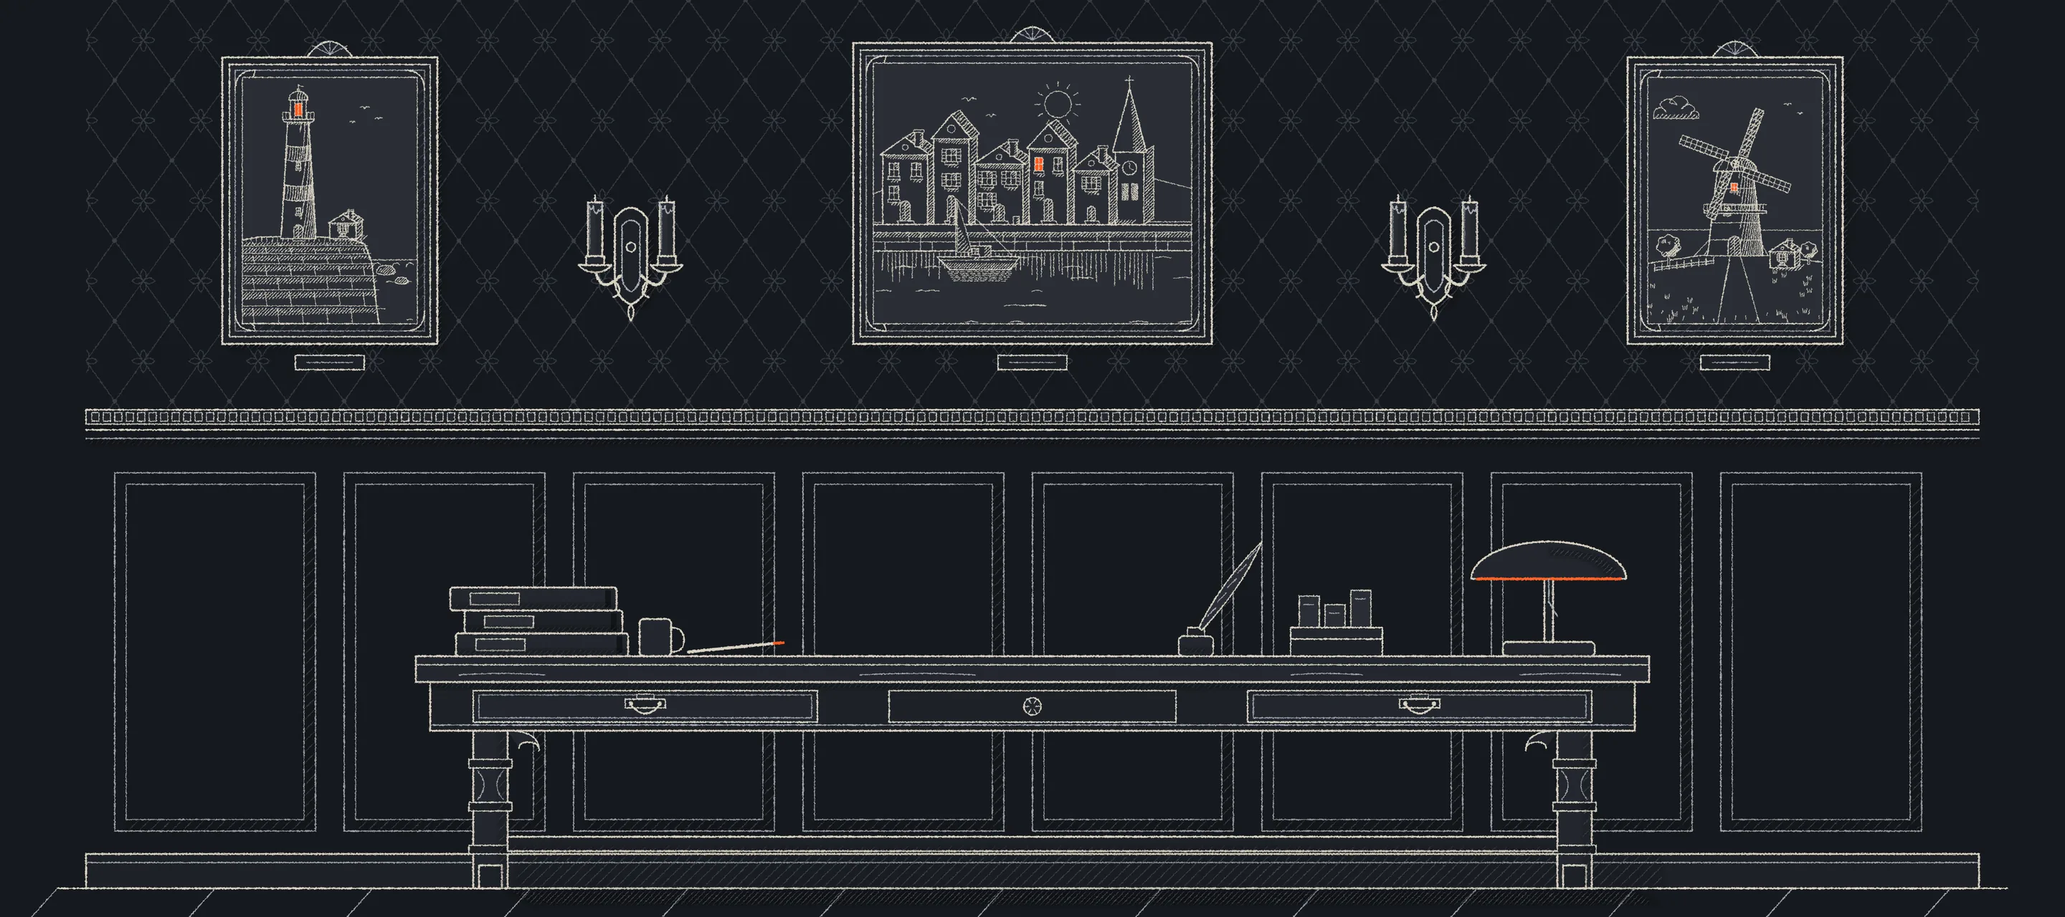
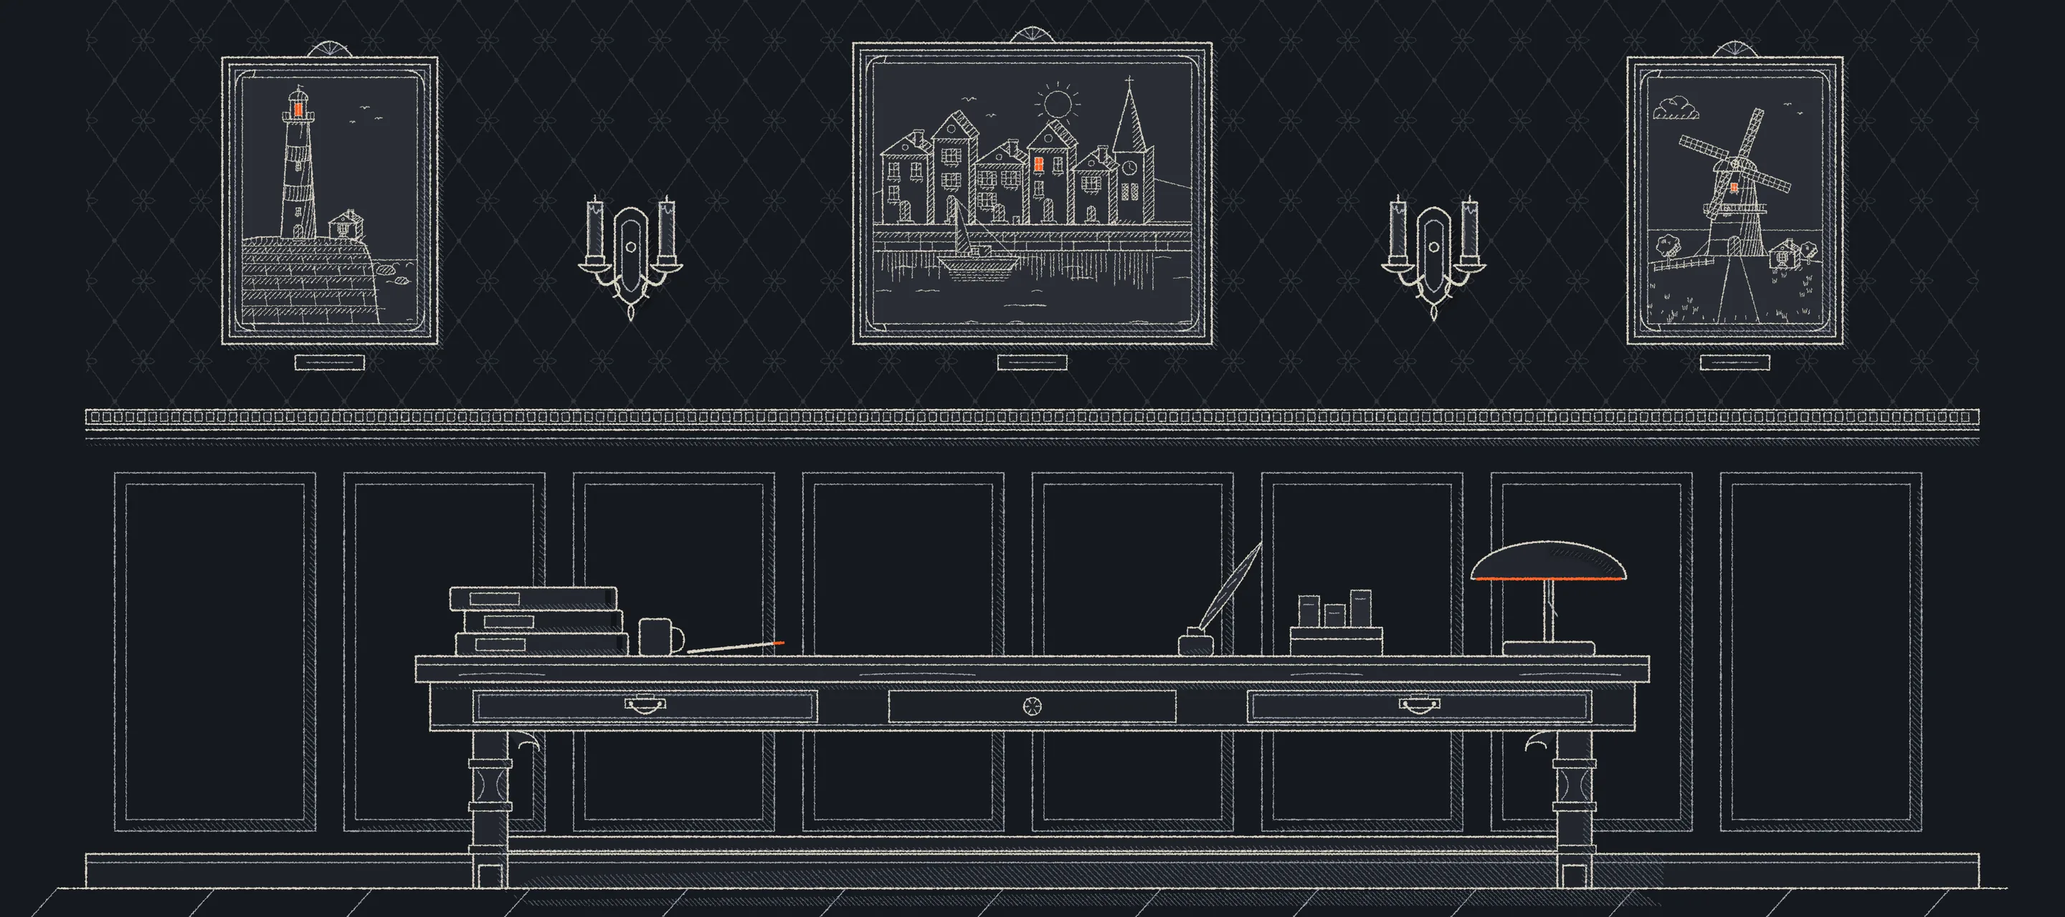
feat(library-art): the study's hatching in the room and the paintings
- washify turns the room's pattern fills into clean ruled hatching on the
  plate's grid (hatching.tile_safe, so a set runs on across the tile edge),
  feathered towards the light, with no wash under it: a shade is hatched or
  washed, never both (R-BAKE-1 changed, P9 now "hatch or wash").
- The shelves' shadows are one deep set under each board and down each left
  side; the soft top and left washes and the pilasters' wash are gone.
- Picture tiers at 0.85 of the room's spacing, judged at 1x and 2x on the page.
- Hatch sets are written as one path each (the print vector stays in budget).
- The desk's damask at 0.5 and its hatching feathered: the dark desk plate's
  1x level is 117 KB against a 120 KB budget, which is unchanged.
- Fix: the rect parser matched stroke-width as width.

Claude-Session: https://claude.ai/code/session_01EUrBbedvfqT1kx9S9BjSVt

diff --git a/astro/scripts/library-art/kernel/hatching.py b/astro/scripts/library-art/kernel/hatching.py
@@ -92,7 +92,15 @@ def _stroke(x0, y0, x1, y1, hand, rg, curve=0.0):
     return [(sx, sy), (mx, my), (ex, ey)]
 
 
-def _set(poly, sp, ang, hand, rg, grade, feather=None, curve=0.0, clean=False):
+def tile_safe(sp, tile, ang=45):
+    """The spacing nearest sp whose lines at ang meet themselves across a tile of this width, so a
+    ruled set anchored to the plate (not the shape) runs on unbroken into the next tile."""
+    k = abs(math.sin(math.radians(ang))) or 1.0
+    n = max(1, round(tile * k / sp))
+    return tile * k / n
+
+
+def _set(poly, sp, ang, hand, rg, grade, feather=None, curve=0.0, clean=False, anchored=False):
     """One set of parallel lines at angle ang (degrees) across the polygon."""
     th = math.radians(ang)
     dx, dy = math.cos(th), math.sin(th)
@@ -111,7 +119,8 @@ def _set(poly, sp, ang, hand, rg, grade, feather=None, curve=0.0, clean=False):
     cx, cy = sum(p[0] for p in poly) / len(poly), sum(p[1] for p in poly) / len(poly)
     c0 = cx * nx + cy * ny
     lines = []
-    for s in _offsets(lo, hi, sp, grade):
+    offs = [k * sp for k in range(math.ceil(lo / sp), math.floor(hi / sp) + 1)] if anchored else _offsets(lo, hi, sp, grade)
+    for s in offs:
         jit = rg.uniform(-0.08, 0.08) * sp if hand == "free" and not clean else 0.0
         drift = math.radians(rg.uniform(-0.8, 0.8)) if hand == "free" and not clean else 0.0
         ddx, ddy = math.cos(th + drift), math.sin(th + drift)
@@ -149,7 +158,7 @@ def _dashes(line, rg, dash):
 
 
 def hatch(d, shape, tone, ang=45, hand="ruled", seed=0, grade=None, colour="hatch", wash=True, dash=None, scale=1.0,
-          feather=None, curve=0.0, clean=False):
+          feather=None, curve=0.0, clean=False, tile=0):
     """Shade a polygon with explicit hatching over a soft wash.
 
     tone  1 (light, far apart) to 5 (deepest, close and crossed): TONES
@@ -168,10 +177,14 @@ def hatch(d, shape, tone, ang=45, hand="ruled", seed=0, grade=None, colour="hatc
     curve every line bends by this fraction of its length, the same way, to follow a rounded
           surface (a bowl, a rolled edge, a curling sheet); 0 lies flat
     clean no jitter: even spacing and smooth gradients, the hand only in the bend of the line
+    tile  a ruled set on a tiled plate: the spacing snaps to tile_safe and the lines sit on the plate's
+          own grid, so a shadow that crosses the tile edge continues in the next tile
     """
     assert hand in HANDS and tone in TONES
     sp, w, crossed = TONES[tone]
     sp *= scale
+    if tile:
+        sp = tile_safe(sp, tile, ang)
     rg = random.Random(seed * 7919 + tone)
     _N[0] += 1
     pts = " ".join(f"{x:.1f},{y:.1f}" for x, y in shape)
@@ -181,14 +194,15 @@ def hatch(d, shape, tone, ang=45, hand="ruled", seed=0, grade=None, colour="hatc
         k = float(d.P.get("shadeK", "1")) * (1.0 if wash is True else float(wash))
         d.o.append(f'<polygon points="{pts}" fill="{d.c("shade")}" fill-opacity="{min(1, WASH[tone] * k):.2f}" '
                    f'filter="url(#washIn)" data-wash="h{_N[0]}"/>')
-    sets = [(ang, sp)] + ([(ang - CROSS, sp * 1.25)] if crossed else [])
+    sets = [(ang, sp)] + ([(ang - CROSS, tile_safe(sp * 1.25, tile, ang - CROSS) if tile else sp * 1.25)] if crossed else [])
     for a, s in sets:
-        lines = _set(shape, s, a, hand, rg, grade, feather, curve, clean)
+        lines = _set(shape, s, a, hand, rg, grade, feather, curve, clean, anchored=bool(tile))
         if dash and hand == "free":
             lines = [seg for ln in lines for seg in _dashes(ln, rg, dash)]
-        for line in lines:
-            p = " ".join(f"{x:.1f},{y:.1f}" for x, y in line)
-            d.o.append(f'<polyline points="{p}" fill="none" stroke="{col}" stroke-width="{w}" stroke-linecap="round"/>')
+        # One path per set, a subpath per line: the same lines, a fraction of the markup.
+        if lines:
+            path = "".join("M" + "L".join(f"{x:.1f} {y:.1f}" for x, y in line) for line in lines)
+            d.o.append(f'<path d="{path}" fill="none" stroke="{col}" stroke-width="{w}" stroke-linecap="round"/>')
     d.o.append('</g>')
 
 

diff --git a/astro/scripts/library-art/checks/check_penwash.py b/astro/scripts/library-art/checks/check_penwash.py
@@ -11,8 +11,8 @@ P6 seamless tile: rendered right edge continues into the left edge like any inte
 P7 theme parity: light and dark exports have the same structure.
 P8 tone tiers: every explicit hatch group draws at its tier's line width, and the tiers run
    from light to deep as closer and never thicker lines (hatching kernel TONES).
-P9 wash by medium: an explicit hatch group in the room has a soft wash under it (pen and wash);
-   one inside a picture has none (pen and ink).
+P9 hatch or wash: no hatch group lies over a wash; a shadow is hatched or washed, never both
+   (R-BAKE-16). The room's washes are the soft forms with no hatching on them.
 P10 hand by scene: groups and outlines inside a picture are free hand (bowed lines); groups in
    the room are ruled (straight two-point lines).
 P11 picture depth: in each pen picture the far band sits closer to the paper than the near band.
@@ -62,8 +62,9 @@ def hatch_groups(svg):
         inner = svg[m.end():end]
         out.append({
             "id": m.group(3), "tier": m.group(1), "hand": m.group(2),
-            "widths": sorted({float(w) for w in re.findall(r'<polyline[^>]*stroke-width="([\d.]+)"', inner)}),
-            "points": [len(p.split()) for p in re.findall(r'<polyline points="([^"]+)"', inner)],
+            "widths": sorted({float(w) for w in re.findall(r'<(?:polyline|path)[^>]*stroke-width="([\d.]+)"', inner)}),
+            "points": [len(p.split()) for p in re.findall(r'<polyline points="([^"]+)"', inner)]
+                      + [len(sub.split("L")) for dd in re.findall(r'<path d="([^"]+)"', inner) for sub in dd.split("M") if sub],
             "wash": f'data-wash="{m.group(3)}"' in inner,
             "picture": any(a <= m.start() < b for a, b in pics),
         })
@@ -169,10 +170,8 @@ def main():
     rep.add("P8 tone tiers", not wrong and order,
             f"{len(groups)} hatch groups, off-tier widths: {wrong[:3] or 'none'}; tiers closer and finer as they deepen: {order}")
 
-    no_wash = [g["id"] for g in groups if not g["picture"] and g["tier"] != "scumble" and not g["wash"]]
-    washed = [g["id"] for g in groups if g["picture"] and g["wash"]]
-    rep.add("P9 wash by medium", not no_wash and not washed,
-            f"room groups without a wash: {no_wash[:3] or 'none'}; picture groups with one: {washed[:3] or 'none'}")
+    washed = [g["id"] for g in groups if g["wash"]]
+    rep.add("P9 hatch or wash", not washed, f"{len(groups)} hatch groups, any over a wash: {washed[:3] or 'none'}")
 
     bad_hand = [g["id"] for g in groups if g["hand"] != ("free" if g["picture"] else "ruled")]
     bent_rules = [g["id"] for g in groups if g["hand"] == "ruled" and max(g["points"], default=2) > 2]
@@ -201,8 +200,8 @@ def selftest(light):
                                      if x["id"] == pic["id"] for w in x["widths"] if abs(w - TONES[int(x["tier"])][1]) > 1e-6],
     }
     if room:
-        cases["P9 room hatch without its wash"] = [x for x in hatch_groups(svg.replace(f'data-wash="{room["id"]}"', 'data-wash="gone"', 1))
-                                                    if not x["picture"] and x["tier"] != "scumble" and not x["wash"]]
+        laid = svg.replace(f'data-group="{room["id"]}">', f'data-group="{room["id"]}"><polygon points="0,0 1,0 1,1" data-wash="{room["id"]}"/>', 1)
+        cases["P9 a hatch laid over a wash"] = [x for x in hatch_groups(laid) if x["wash"]]
     ok = True
     for name, caught in cases.items():
         print(f"  [{'PASS' if caught else 'FAIL'}] selftest {name}: {'caught' if caught else 'NOT caught'}")

diff --git a/astro/scripts/library-art/kernel/penwash.py b/astro/scripts/library-art/kernel/penwash.py
@@ -65,14 +65,49 @@ def chalk_filter():
             '<feDisplacementMap in="SourceGraphic" in2="n" scale="1.4" xChannelSelector="R" yChannelSelector="G"/></filter>')
 
 
-def washify(P, body):
-    """Shadow + hatching: each hatched shape gets a soft blurred tone beneath its crisp lines."""
+ROOM_TONE = {"hatch": 3, "hatch2": 4, "xhatch": 5}   # the pattern fills a drawing names, as tone tiers
+ROOM_INK = "hatch2"                                    # the room recedes behind its pictures: its hatching in the deep hatch tone
+TILE = 760                                             # the wall unit's width: ruled sets run on across it
+LIGHT_TOWARDS = (-0.7, -0.7)
+
+
+def _pts(tag):
+    """A rect's or a polygon's corners from its SVG tag, or None for any other shape."""
     import re
+    if tag.startswith("<rect"):
+        g = {k: float(v) for k, v in re.findall(r'(?<![\w-])(x|y|width|height)="([-\d.]+)"', tag)}
+        if len(g) < 4:
+            return None
+        x, y, w, h = g["x"], g["y"], g["width"], g["height"]
+        return [(x, y), (x + w, y), (x + w, y + h), (x, y + h)]
+    if tag.startswith("<polygon"):
+        m = re.search(r'points="([^"]+)"', tag)
+        return [tuple(map(float, q.split(","))) for q in m.group(1).split()] if m else None
+    return None
+
+
+def washify(P, body, tile=TILE):
+    """Shade every hatched shape, R-BAKE-1 and 16: a rect or polygon becomes ruled hatching in its
+    tone tier, clean, on the plate's own grid (so it runs on across tile edges), feathered towards
+    the light when it is a small form, with no wash under it (a shadow is hatched or washed, never
+    both). A curved path keeps the soft tone and masked pattern, the old way, since its outline is
+    not a polygon."""
+    import re
+    from .hatching import hatch
     ink, k = P["shade"], float(P["shadeK"])
     tone = {"hatch": 0.08, "hatch2": 0.14, "xhatch": 0.2}
     n = [0]
+
     def dup(m):
         tag, pid = m.group(0), m.group(1)
+        pts = _pts(tag)
+        if pts:
+            xs = [p[0] for p in pts]
+            inside = not tile or (min(xs) >= 0 and max(xs) <= tile)          # a shape that crosses a tile edge stays even
+            d = D(P)
+            hatch(d, pts, ROOM_TONE[pid], ang=45, hand="ruled", colour=ROOM_INK, wash=False, clean=True, tile=tile or TILE,
+                  feather=(0.7, *LIGHT_TOWARDS) if inside else None)
+            return "".join(d.o)
         n[0] += 1
         mid = f"hm{n[0]}"
         soft = tag.replace(f'fill="url(#{pid})"', f'fill="{ink}" fill-opacity="{min(1, tone[pid] * k):.2f}" filter="url(#wash)"')
@@ -84,7 +119,7 @@ def washify(P, body):
 
 
 def wrap(P, body, w, h, chalk):
-    body = washify(P, body)
+    body = washify(P, body, tile=TILE if w == TILE else 0)
     g = '<g filter="url(#chalk)">' if chalk else "<g>"
     return (f'<svg xmlns="http://www.w3.org/2000/svg" viewBox="0 0 {w} {h}" width="{w}" height="{h}">'
             f'{defs(P, chalk_filter() if chalk else "")}{g}\n{body}\n</g></svg>')

diff --git a/astro/scripts/library-art/kernel/scenes.py b/astro/scripts/library-art/kernel/scenes.py
@@ -6,6 +6,7 @@ import sys
 from .primitives import D, SW
 from .penwash import LIGHT, DARK, wrap, scaled, raised_panel, sconce, crest, flame, archive_box, bookend, book_stack, SHADOW
 from .penpicture import pen_picture
+from .hatching import hatch
 
 ROWS_TOP = [58, 228, 386, 544]
 BOARDS = [214, 372, 530, 688]
@@ -90,13 +91,13 @@ def unit(P):
             d.path(f"M{gx},62 c3,60 -3,120 0,180 c3,60 -3,120 0,180 c2,60 -2,140 0,200", "none", "deep", 0.6)
     for rt in ROWS_TOP:
         rh = 156 if rt != 544 else 144
-        d.rect(x0 + 28, rt, iw, 48, "url(#aoTop)", None)
-        d.rect(x0 + 28, rt, 30, rh, "url(#aoLeft)", None)
+        # Each shelf's shadow is hatching alone, no wash under it (R-BAKE-16): one deep set under the
+        # board above, fading down by line length, and one down the left side, fading right.
+        hatch(d, [(x0 + 28, rt), (xr - 28, rt), (xr - 28, rt + 22), (x0 + 28, rt + 22)], 4, ang=45, colour="hatch2",
+              wash=False, clean=True, tile=UW, feather=(0.85, 0, 1))
+        hatch(d, [(x0 + 28, rt + 22), (x0 + 44, rt + 22), (x0 + 44, rt + rh), (x0 + 28, rt + rh)], 4, ang=45, colour="hatch2",
+              wash=False, clean=True, tile=UW, feather=(0.8, 1, 0))
         d.rect(xr - 52, rt, 24, rh, "url(#cylR)", None, op=0.6)
-        d.rect(x0 + 28, rt, iw, 12 if rt == 58 else 14, "url(#hatch)", None)
-        d.rect(x0 + 28, rt, iw, 5, "url(#hatch2)", None)
-        d.rect(x0 + 28, rt, 8, rh, "url(#hatch)", None)
-        d.rect(x0 + 28, rt, 8, 30, "url(#hatch2)", None)
     for bt in BOARDS:
         d.rect(x0 + 24, bt, iw + 8, 14, "a")
         d.line([(x0 + 24, bt + 4), (xr - 24, bt + 4)], "ink", 0.8)
@@ -115,7 +116,6 @@ def unit(P):
         for fx in (7, 14, 21):
             x = px + fx
             d.path(f"M{x - 1.5},88 v574 a1.5,1.5 0 0 0 3,0 v-574 a1.5,1.5 0 0 0 -3,0Z", "c", "ink", 0.8)
-        d.rect(px, 72, 28, 604, "url(#cylR)", None)
         for fx in (7, 14, 21):
             d.line([(px + fx + 1, 90), (px + fx + 1, 660)], "hatch2", 0.7)
         d.rect(px + 22, 72, 6, 604, "url(#hatch)", None)
@@ -176,7 +176,7 @@ def glow():
 def table(P):
     d = D(P)
     # damask wallpaper with three detailed etchings above the desk
-    d.rect(60, 0, 1320, 286, "url(#damask)", None, op=0.65)          # quieter, so the pictures on it lead
+    d.rect(60, 0, 1320, 286, "url(#damask)", None, op=0.5)          # quieter, so the pictures on it lead
     etching2(d, 230, 40, 150, 200, "lighthouse", seed=7)
     etching2(d, 720, 30, 250, 210, "harbour", seed=11)
     etching2(d, 1210, 40, 150, 200, "windmill", seed=5)

diff --git a/astro/scripts/library-art/kernel/penpicture.py b/astro/scripts/library-art/kernel/penpicture.py
@@ -16,9 +16,10 @@ import random
 from functools import partial
 from .hatching import hatch as _hatch, scumble as _scumble, free_line, ellipse, crescent
 
-# A picture is a smaller drawing than the room, so its tiers run closer together (PICTURE_SCALE of
-# the room's spacing), keeping their order and widths.
-PICTURE_SCALE = 0.55
+# A picture's tiers run a little closer than the room's (PICTURE_SCALE of its spacing), keeping their
+# order and widths. Judged at the size the page shows them (1x and 2x), not at a zoomed sheet: closer
+# than this and a small picture's shadows fill in solid on the page.
+PICTURE_SCALE = 0.85
 # One light, one hand: every shadow in a picture is hatched at this angle (lines rising to the
 # right, the stroke a right hand makes), and the deep tiers cross it square. Only level things
 # (water) are drawn level.

diff --git a/.claude/skills/pen-and-wash/references/kernel.md b/.claude/skills/pen-and-wash/references/kernel.md
@@ -10,7 +10,7 @@ package with `graphite_pencil/kernel` and `art_render/kernel`.
 | `primitives.D(P)` | the SVG writer: `rect`, `line`, `poly`, `circle`, `path`, `text` | `text` exists but words never go into a plate (R-BAKE-8) |
 | `penwash.LIGHT`, `penwash.DARK` | the two palettes plus non-colour knobs (`shadeK`, `halo`, `led`) | colours come from `tokens`; never add a hex here |
 | `penwash.wrap(P, body, w, h, chalk)` | the finished SVG: defs, `washify`, the chalk filter in dark | `chalk=True` for dark only |
-| `penwash.washify(P, body)` | wash under each hatched shape, lines masked by it | runs inside `wrap`; do not call twice |
+| `penwash.washify(P, body, tile)` | turns each pattern-filled rect or polygon into ruled hatching in its tier (`hatch` 3, `hatch2` 4, `xhatch` 5), on the plate's grid, feathered towards the light unless it crosses a tile edge, no wash; a curved path keeps the old soft tone and masked pattern | runs inside `wrap`; do not call twice |
 | `penwash.scaled(d, cx, cy, k, fn)` | draws `fn` scaled about a point | stroke widths scale too; keep `k` near 1.25 to 1.4 |
 | `penwash.raised_panel(d, x, y, w, h, t)` | a slab standing proud of the wall | its cast shadow is drawn first |
 | `penwash.sconce(d, c, y, P)`, `candle(d, x, base_y)` | a twin-arm candle sconce, a candle | flames are the signal |
@@ -18,7 +18,7 @@ package with `graphite_pencil/kernel` and `art_render/kernel`.
 | `penwash.crest(d, c, cy, P)`, `monogram(...)`, `laurel(...)` | the shield with the SJ mark and laurel | the logo keeps its own scaled weights |
 | `penwash.archive_box(d, x, base)`, `bookend(d, x, base)`, `book_stack(d, x, base)` | shelf fillers, foot on `base`, shadow falling right by `SHADOW` | drawn as their own sprite plates, rendered with no background so they keep their transparency |
 | `hatching.TONES` | the five tone tiers: (spacing, width, crossed), lighter is farther apart, darker closer and finer, only 5 crosses | the room's patterns (`hatch0`, `hatch`, `hatch2`) are tiers 1, 2 and 4 at tile-safe spacings |
-| `hatching.hatch(d, shape, tone, ang, hand, grade, feather, curve, clean, scale, dash, wash)` | explicit hatch lines clipped to a polygon by geometry, over a wash unless `wash=False` | `hand="ruled"` for built things, `"free"` for pictures; `grade` and `feather` make the gradient; `curve` bends lines over a round form |
+| `hatching.hatch(d, shape, tone, ang, hand, grade, feather, curve, clean, scale, dash, wash, tile)` | explicit hatch lines clipped to a polygon by geometry, over a wash unless `wash=False` | `hand="ruled"` for built things, `"free"` for pictures; `grade` and `feather` make the gradient; `curve` bends lines over a round form |
 | `hatching.scumble(d, shape, n, hand)` | small groups of short marks turned their own ways, for a lit face that has depth but no shadow direction | ruled scumble only turns to the hatch angles |
 | `hatching.free_line`, `ellipse`, `crescent` | a breathing outline; polygons for round forms and the shadow side of one | |
 | `penpicture.pen_picture(d, x, y, w, h, scene, seed)` | a framed pen-and-ink scene: `lighthouse`, `harbour`, `windmill` | each scene names its far and near boxes in `BANDS` for P11 |

diff --git a/.claude/skills/pen-and-wash/references/rules.md b/.claude/skills/pen-and-wash/references/rules.md
@@ -9,7 +9,7 @@ rule, change its deck row.
 
 ## Line and shade
 
-- **R-BAKE-1** (eval: deck case only (no eval yet)) Draw the room in monoline pen and wash: crisp ink outlines in three weight tiers (hairline, line, accent), and every shade as a soft wash with clean hatching drawn over it, never hatching alone. *Why:* Hatching alone looks awkward up close; the wash under it gives the tone and the hatching gives the drawn texture. Reject when: a stroke outside the tiers, or a hatched area with no wash under it
+- **R-BAKE-1** (eval: P9 in check_penwash) Draw the room in monoline pen and wash: crisp ink outlines in three weight tiers (hairline, line, accent); a shade is either clean ruled hatching in its tone tier or a soft wash, never both on one area (Juan, 27 November 2026: "if you have shadow you dont really need hatch"). Hatching keeps to the plate's grid, so it runs on across a tile edge. *Why:* Hatching laid over a wash doubles the shade and muddies it; the reference cards shade with line alone. Reject when: a stroke outside the tiers, or a hatch over a wash
 - **R-BAKE-2** (eval: deck case only (no eval yet)) Keep hatching inside its own shadow and behind the objects in front of it: mask each hatched shape by its shape, and draw a cast shadow before the shape that casts it. *Why:* Lines that leave their shadow or cross in front of an object read as scribbles over the drawing. Reject when: a hatch line that runs past its shadow's edge, or a shadow drawn over the shape that casts it
 - **R-BAKE-11** (eval: deck case only (no eval yet)) Light every drawing from the upper left: lit faces up and left, shadow faces and cast shadows down and right, the same in every object of a scene. *Why:* One light makes the separate objects one room; a stray light direction reads as a pasted-in part. Reject when: an object whose shadow falls up or left
 

diff --git a/.claude/skills/pen-and-wash/SKILL.md b/.claude/skills/pen-and-wash/SKILL.md
@@ -27,10 +27,11 @@ green: a kernel change is its own reviewed change, made here and synced to the s
 4. **Draw back to front** with `D(P)`: wall, recess, cast shadows, then the shapes that cast them, then their
    details (R-BAKE-2). Reuse the components (`raised_panel`, `sconce`, `candle`, `crest`, `scaled`); a part used
    twice becomes a kernel function in a separate change.
-5. **Shade with hatching only, in tiers** (R-BAKE-16): the tile-safe pattern fills (`url(#hatch0)` light,
-   `url(#hatch)`, `url(#hatch2)` deep) for long runs, which `wrap()` washes and masks (R-BAKE-1, R-BAKE-2), or
-   `hatching.hatch(d, shape, tone, hand="ruled")` for a graded shadow on a front face, which lays its own wash.
-   Lighter is fewer lines farther apart, darker closer and finer; only tone 5 crosses. A shadow is a gradient
+5. **Shade with hatching only, in tiers** (R-BAKE-16): the pattern fills (`url(#hatch)`, `url(#hatch2)` deep,
+   `url(#xhatch)` deepest), which `wrap()` turns into clean ruled hatching on the plate's grid, or
+   `hatching.hatch(d, shape, tone, hand="ruled", wash=False, clean=True, tile=W)` for a shadow you shape
+   yourself. A shade is hatched or washed, never both (R-BAKE-1).
+   Lighter is fewer lines, never far apart; darker is closer and finer; only tone 5 crosses. A shadow is a gradient
    (`grade`, `feather`), and lines on a round surface bend (`curve`). No words in the drawing (R-BAKE-8).
 5b. **A picture** is `penpicture.pen_picture(d, x, y, w, h, scene, seed)`: a few real objects with their parts,
    three-quarter, each shaped then shaded at the one picture angle, free hand, no wash (R-BAKE-15 to 17). A new
